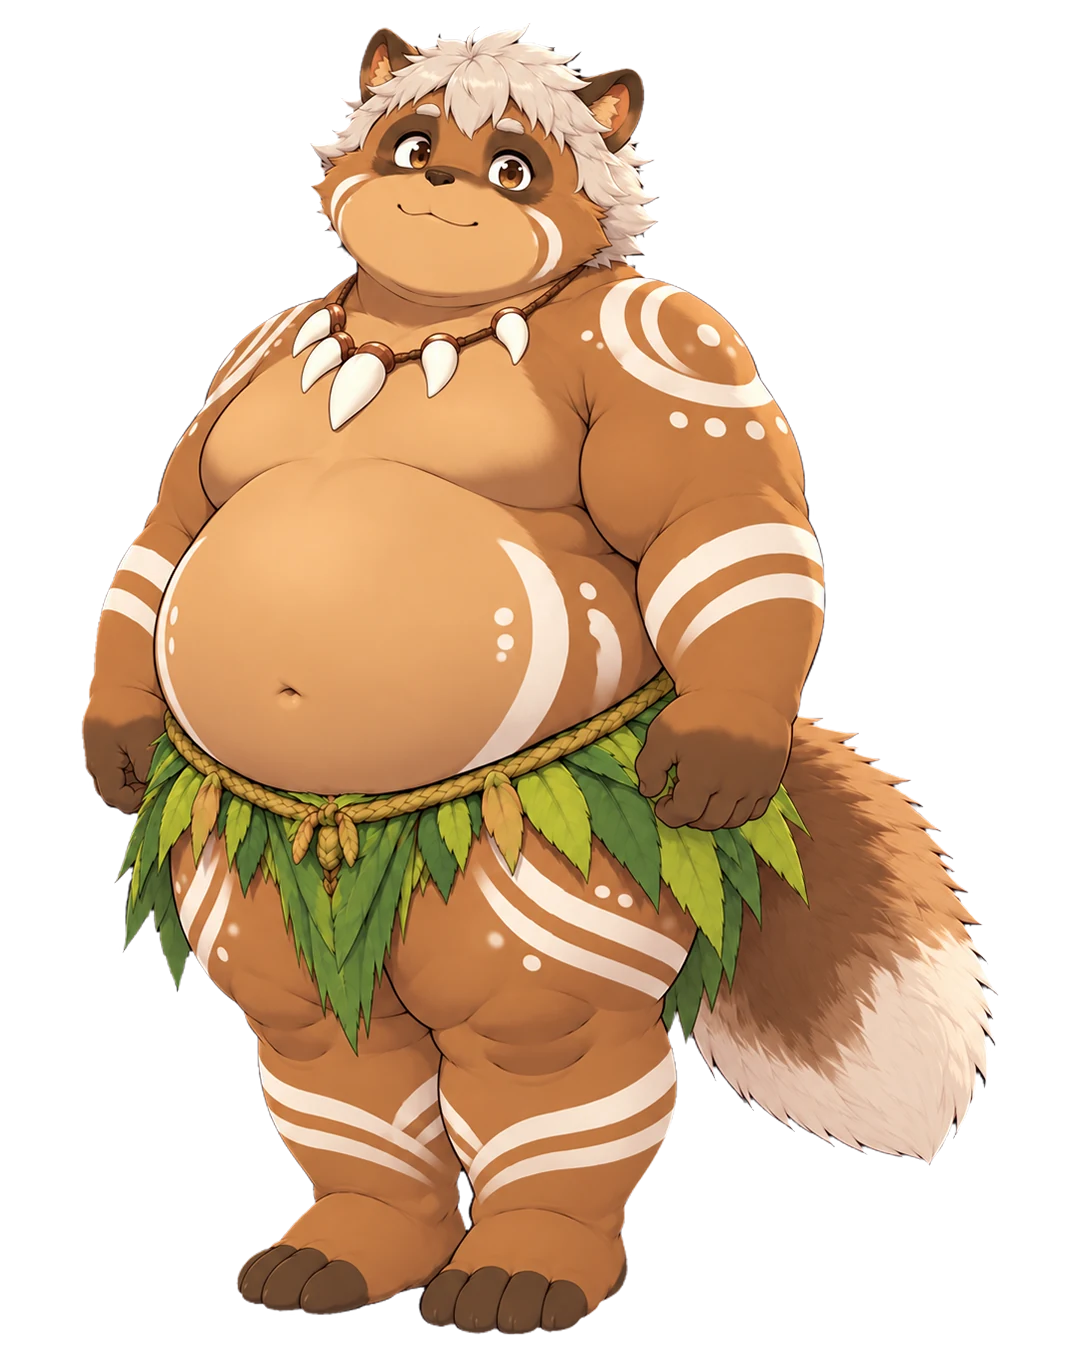
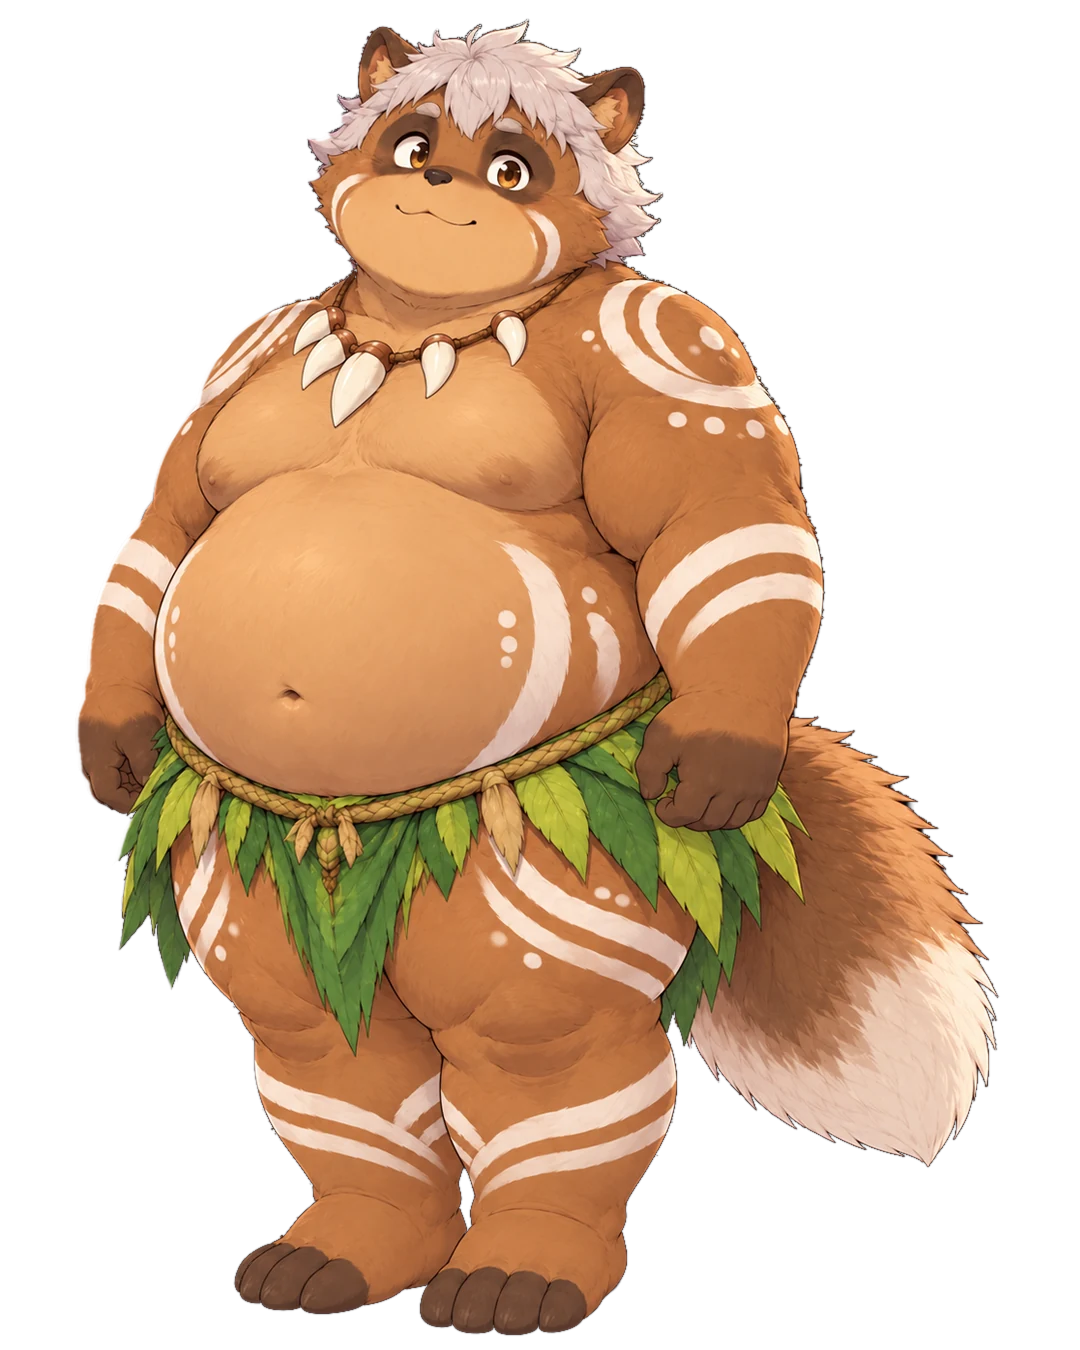
タヌくん：トップ画面のズームの絵を、毛並みが細かい2枚目に差しかえ
Claude-Session: https://claude.ai/code/session_01DyLyAjnq7wZcgZob2teqr2

diff --git a/tanukun/tools/make_normal_hd.py b/tanukun/tools/make_normal_hd.py
@@ -1,14 +1,19 @@
-"""ズーム用の高画質の立ち絵（images/topmenu/normal_hd.webp）をつくる（2026-10-31）
+"""ズーム用の高画質の立ち絵（images/topmenu/normal_hd.webp）をつくる
 
-art/hd/normal_hd_src.png … ChatGPT で描き直してもらった「通常」の絵（1159×1358、背景は黒）。
-  もとの立ち絵 images/normal.webp（720×900）を約1.508倍にすると、ずれなく重なる。
-背景が黒で、足の肉球（黒に近い色）と区別しにくいので、色で抜かずに、
-もとの立ち絵の形（透明度）を1.5倍に拡大して、型として使う。
-できあがりは 1080×1350（もとの絵のちょうど1.5倍。並べ方はもとの絵と同じ）。
+art/hd/normal_hd_src.png … ChatGPT で描き直してもらった「通常」の絵（背景は黒）。
+  2026-10-31 の2枚目（1122×1402。毛並みが細かい版。ユーザーの希望でこちらに差しかえ）。
+  1枚目（1159×1358）は art/hd/normal_hd_src_v1.png に残してある。
+できあがりは 1080×1350（もとの立ち絵 images/normal.webp のちょうど1.5倍。並べ方は同じ）。
+
+位置合わせ（FIT）：もとの立ち絵を1.5倍にした絵と、いちばん重なる「倍率（横・縦）とずらし」を探した値。
+  できあがりの (x, y) には、描き直した絵の (fx*x + ox, fy*y + oy) の色を使う。絵を差しかえたら探し直す。
+透明にする所：背景が黒で、足の肉球（黒に近い色）と区別しにくいので、
+  ・もとの立ち絵の形の内側（少し内側）は必ず見せる
+  ・ふちのあたりだけ、描き直した絵の明るさで背景（黒）を抜く（もとの形より少し外まで）
   python3 tools/make_normal_hd.py
 """
 from pathlib import Path
-from PIL import Image, ImageFilter
+from PIL import Image, ImageFilter, ImageChops
 import numpy as np
 
 ROOT = Path(__file__).resolve().parent.parent
@@ -16,32 +21,26 @@ SRC = ROOT / 'art' / 'hd' / 'normal_hd_src.png'
 BASE = ROOT / 'images' / 'normal.webp'
 OUT = ROOT / 'images' / 'topmenu' / 'normal_hd.webp'
 K = 1.5
-
-
-def bbox(mask):
-    ys, xs = np.where(mask)
-    return xs.min(), ys.min(), xs.max(), ys.max()
+FIT = {'fx': 1.034, 'fy': 1.039, 'ox': 3.0, 'oy': 0.0}
 
 
 def main():
     base = Image.open(BASE).convert('RGBA')
     src = Image.open(SRC).convert('RGB')
-    a = bbox(np.array(base)[..., 3] > 128)
-    b = bbox(np.array(src).max(axis=2) > 40)
-    s = ((b[2] - b[0]) / (a[2] - a[0]) + (b[3] - b[1]) / (a[3] - a[1])) / 2   # もとの絵 → 描き直した絵 の倍率
-    ox, oy = b[0] - a[0] * s, b[1] - a[1] * s                                  # もとの絵の (0,0) が来る所
     W, H = round(base.width * K), round(base.height * K)
-    # 描き直した絵を、もとの絵の並べ方 × 1.5 に合わせる
-    f = s / K
-    rgb = src.transform((W, H), Image.AFFINE, (f, 0, ox, 0, f, oy), resample=Image.BICUBIC)
-    alpha = base.getchannel('A').resize((W, H), Image.LANCZOS)
-    # 型のふちが黒い背景にかからないように、ほんの少し内側へ
-    alpha = alpha.filter(ImageFilter.MinFilter(3))
+    rgb = src.transform((W, H), Image.AFFINE, (FIT['fx'], 0, FIT['ox'], 0, FIT['fy'], FIT['oy']), resample=Image.BICUBIC)
+    shape = base.getchannel('A').resize((W, H), Image.LANCZOS)
+    inner = shape.filter(ImageFilter.MinFilter(9))     # 形の少し内側：必ず見せる
+    outer = shape.filter(ImageFilter.MaxFilter(7))     # 形の少し外側：ここまでは、明るさで判断
+    lum = np.array(rgb.convert('L')).astype(float)
+    bright = Image.fromarray(np.clip((lum - 10) / 22 * 255, 0, 255).astype(np.uint8))   # 黒い背景 → 0
+    alpha = ImageChops.lighter(inner, ImageChops.multiply(outer, bright))
+    alpha = alpha.filter(ImageFilter.GaussianBlur(0.6))
     out = rgb.convert('RGBA')
     out.putalpha(alpha)
     OUT.parent.mkdir(parents=True, exist_ok=True)
     out.save(OUT, 'WEBP', quality=88, method=6)
-    print('倍率', round(s, 4), 'ずれ', round(ox, 2), round(oy, 2), '→', OUT, OUT.stat().st_size // 1024, 'KB')
+    print('→', OUT, OUT.stat().st_size // 1024, 'KB')
 
 
 if __name__ == '__main__':

diff --git a/tanukun/HANDOFF.md b/tanukun/HANDOFF.md
@@ -25,6 +25,9 @@
        `python3 tools/make_normal_hd.py` で images/topmenu/normal_hd.webp（1080×1350＝もとの1.5倍、並べ方は同じ）を作る。
        背景が黒で肉球と区別しにくいので、色では抜かず、もとの立ち絵の透明度を1.5倍にして型にした。
        topmenu.js はふだんの絵を NORMAL（この絵）に。本編に組みこむときも、ふだんの立ち絵（ズームする絵）はこの絵を使う
+     - **2026-10-31 差しかえ**：ユーザーの希望で、毛並みが細かい2枚目（art/hd/normal_hd_src.png、1122×1402）に。1枚目は normal_hd_src_v1.png。
+       2枚目は少しだけずれがある（数ピクセル）ので、make_normal_hd.py の FIT（横・縦の倍率とずらし）で合わせた。
+       透明にする所は「もとの形の内側は必ず見せる＋ふちだけ明るさで黒を抜く」に変えた（形が少しちがっても、黒いふちが出ないように）
      - 今のズームは立ち絵（720×900）を約2.5倍にしているので、スマホでは少しぼやける。ユーザーが ChatGPT で高い解像度のおなかの絵を描いてくれる
      - ユーザーに渡したプロンプト（このまま渡せばよい）：
        「添付の「通常」の絵のタヌくんを、構図・ポーズ・角度・色・模様を変えずに、胸からひざの上までを大きく描き直してください。
